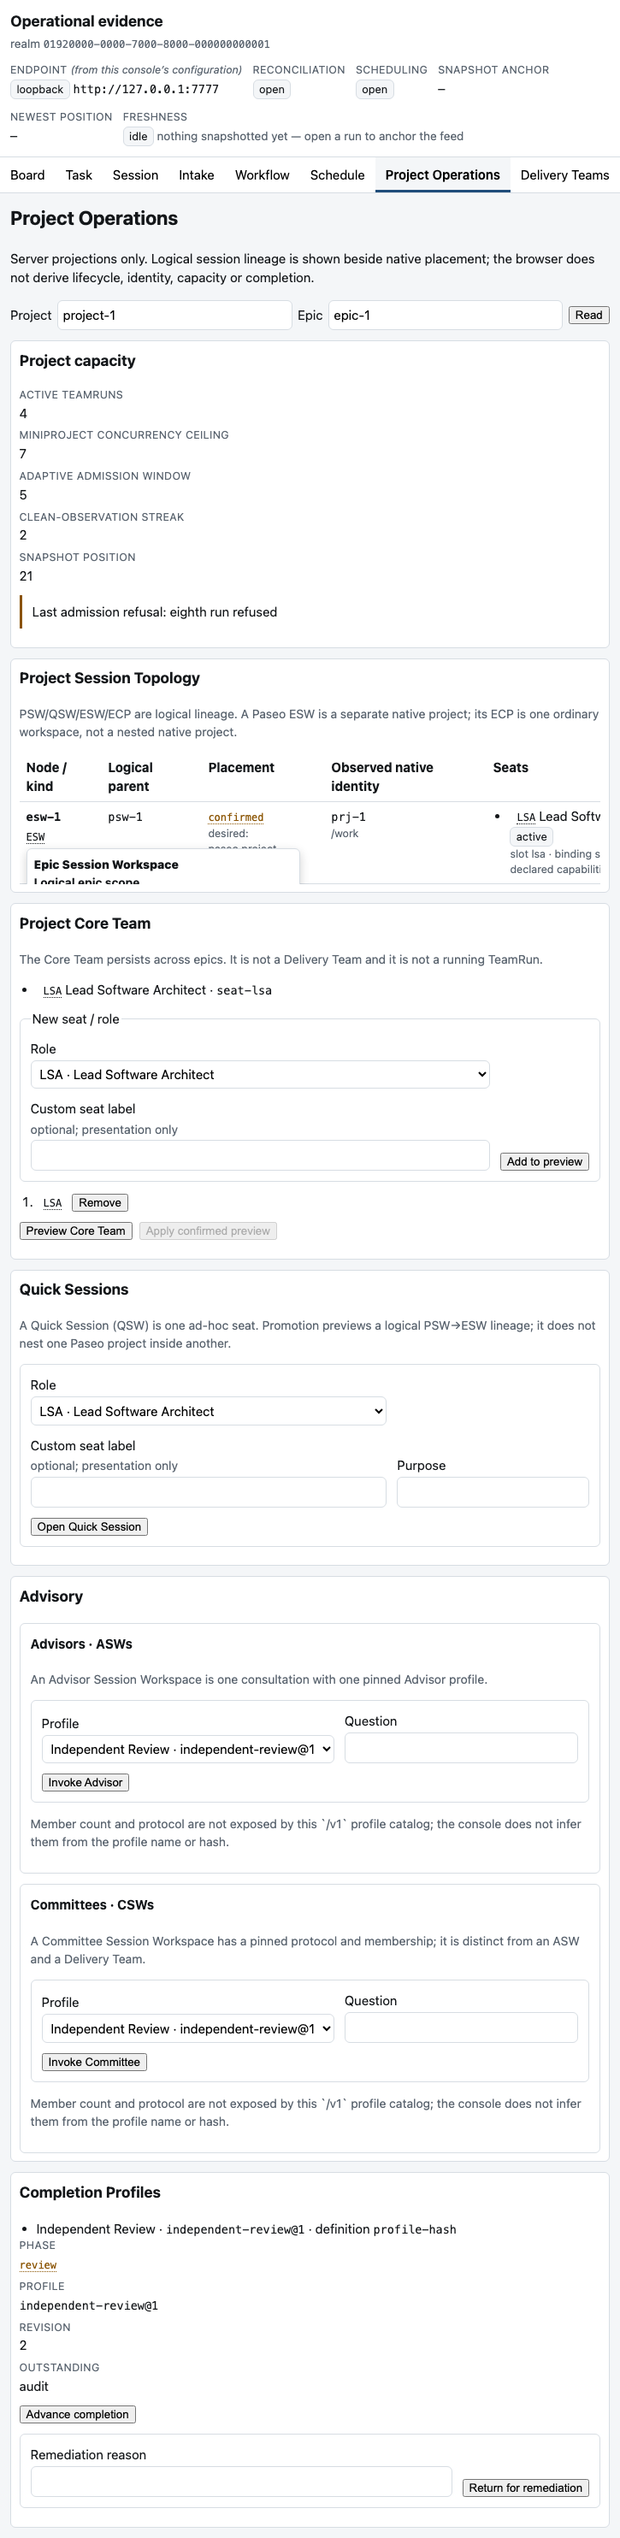
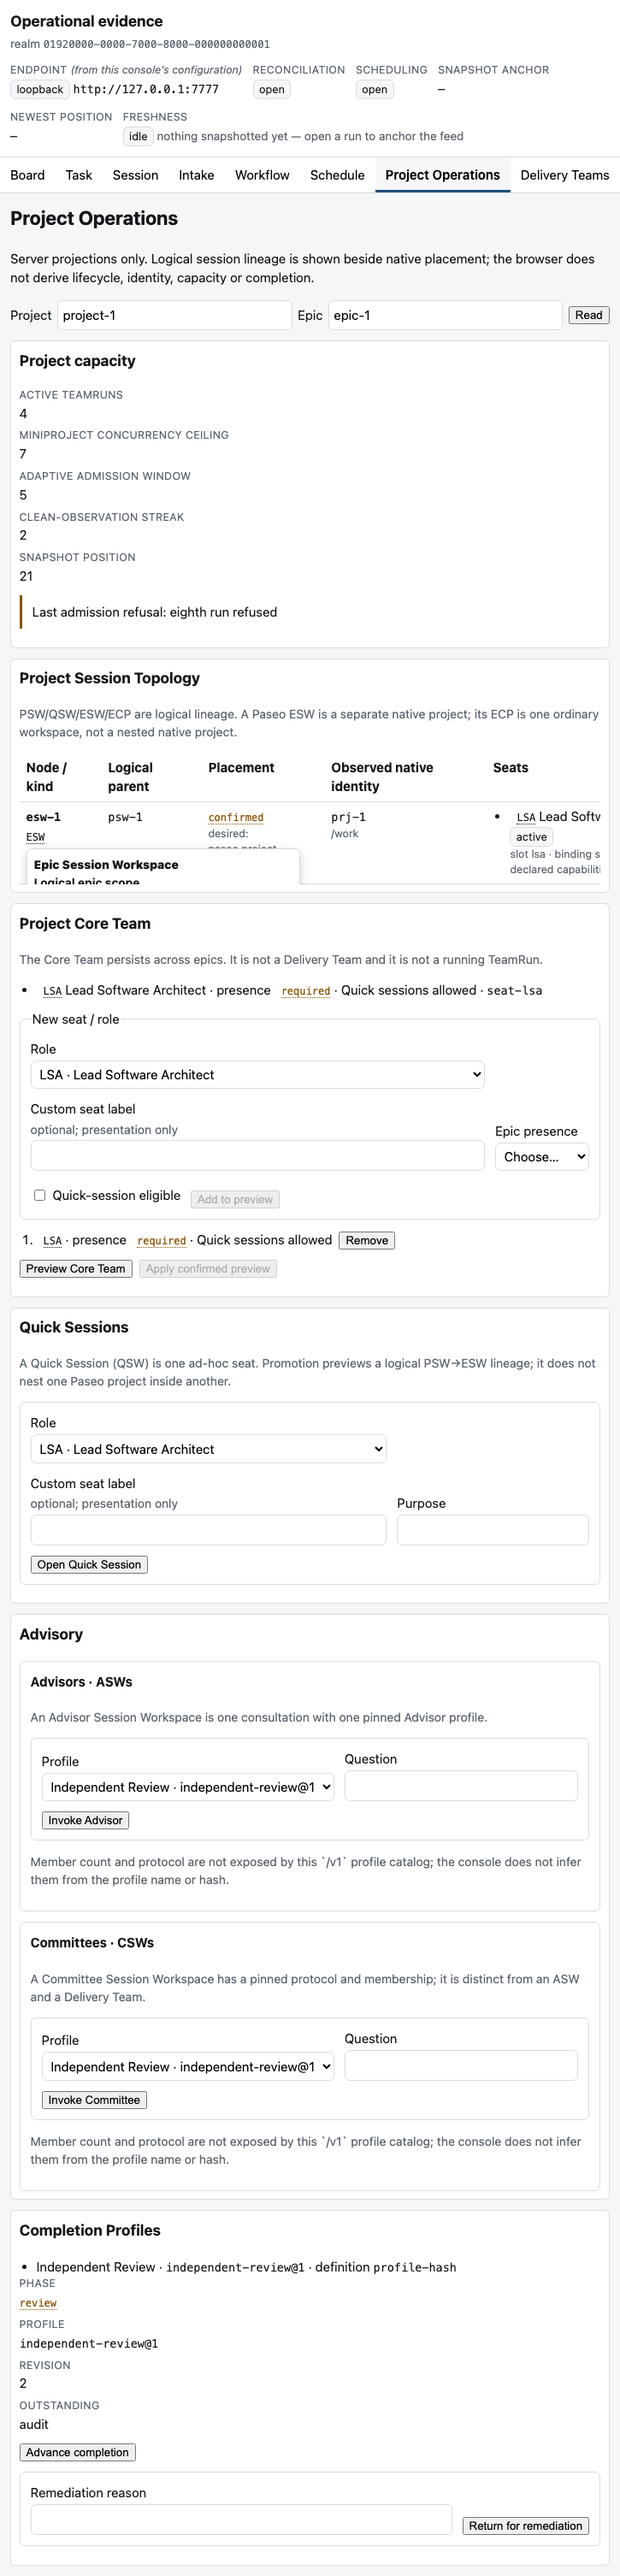
chore: Update asma-rs-kontor module

diff --git a/apps/console/src/views/ProjectView.tsx b/apps/console/src/views/ProjectView.tsx
@@ -10,6 +10,7 @@ import type {
   CoreTeam,
   CoreTeamOutcome,
   CoreTeamPreview,
+  CoreTeamSeatSelection,
   EpicProjection,
   MutationReceipt,
   ProfileCatalog,
@@ -323,9 +324,11 @@ function CoreTeamPanel({
   help: readonly CodeHelpEntry[]
 }) {
   const [current, setCurrent] = useState(team)
-  const [seats, setSeats] = useState<RoleSelection[]>([])
+  const [seats, setSeats] = useState<CoreTeamSeatSelection[]>([])
   const [roleCode, setRoleCode] = useState(roles[0]?.role_code ?? '')
   const [label, setLabel] = useState('')
+  const [presence, setPresence] = useState('')
+  const [adHocAllowed, setAdHocAllowed] = useState(false)
   const [preview, setPreview] = useState<CoreTeamPreview | null>(null)
   const [receipt, setReceipt] = useState<MutationReceipt | null>(null)
   const [error, setError] = useState<string | null>(null)
@@ -334,17 +337,23 @@ function CoreTeamPanel({
   useEffect(() => {
     setCurrent(team)
     setSeats(team.seats.map((seat) => ({
-      catalog_revision: seat.role.catalog_revision,
-      role_code: seat.role.role_code,
-      ...(seat.role.custom_display_name ? { custom_display_name: seat.role.custom_display_name } : {}),
+      role: {
+        catalog_revision: seat.role.catalog_revision,
+        role_code: seat.role.role_code,
+        ...(seat.role.custom_display_name ? { custom_display_name: seat.role.custom_display_name } : {}),
+      },
+      presence: seat.presence,
+      ad_hoc_allowed: seat.ad_hoc_allowed,
     })))
   }, [team])
 
   const add = (): void => {
     const selection = roleSelection(catalogRevision, roleCode, label)
-    if (!selection) return
-    setSeats((value) => [...value, selection])
+    if (!selection || !presence) return
+    setSeats((value) => [...value, { role: selection, presence, ad_hoc_allowed: adHocAllowed }])
     setLabel('')
+    setPresence('')
+    setAdHocAllowed(false)
     setPreview(null)
   }
 
@@ -356,6 +365,8 @@ function CoreTeamPanel({
           <li key={`${seat.role.role_code}-${seat.seat_binding_id ?? 'unfilled'}`}>
             <CodeHelp code={seat.role.role_code} category="role" entries={help} /> {seat.role.standard_title}
             {seat.role.custom_display_name ? ` · ${seat.role.custom_display_name}` : ''}
+            {' · '}presence <CodeHelp code={seat.presence} entries={help} />
+            {' · '}Quick sessions {seat.ad_hoc_allowed ? 'allowed' : 'not allowed'}
             {' · '}{seat.seat_binding_id ? <code>{seat.seat_binding_id}</code> : 'not materialized'}
           </li>
         ))}
@@ -363,14 +374,18 @@ function CoreTeamPanel({
       <fieldset className="operation-form">
         <legend>New seat / role</legend>
         <RoleFields roles={roles} roleCode={roleCode} onRoleCode={setRoleCode} label={label} onLabel={setLabel} disabled={!catalogRevision} />
-        <button type="button" onClick={add} disabled={busy || !catalogRevision || !roleCode}>Add to preview</button>
+        <label className="field">Epic presence<select required value={presence} onChange={(event) => setPresence(event.target.value)}><option value="">Choose…</option><option value="required">required</option><option value="default">default</option><option value="on_demand">on demand</option></select></label>
+        <label className="check-field"><input type="checkbox" checked={adHocAllowed} onChange={(event) => setAdHocAllowed(event.target.checked)} /> Quick-session eligible</label>
+        <button type="button" onClick={add} disabled={busy || !catalogRevision || !roleCode || !presence}>Add to preview</button>
         {!catalogRevision ? <p className="banner" role="alert">The server projected no role-catalog revision, so a valid selection cannot be written.</p> : null}
       </fieldset>
       {seats.length ? (
         <ol className="compact-list" aria-label="proposed Core Team seats">
           {seats.map((seat, index) => (
-            <li key={`${seat.role_code}-${index}`}>
-              <CodeHelp code={seat.role_code} category="role" entries={help} /> {seat.custom_display_name ?? ''}
+            <li key={`${seat.role.role_code}-${index}`}>
+              <CodeHelp code={seat.role.role_code} category="role" entries={help} /> {seat.role.custom_display_name ?? ''}
+              {' · '}presence <CodeHelp code={seat.presence} entries={help} />
+              {' · '}Quick sessions {seat.ad_hoc_allowed ? 'allowed' : 'not allowed'}
               <button type="button" onClick={() => { setSeats((value) => value.filter((_, at) => at !== index)); setPreview(null) }}>Remove</button>
             </li>
           ))}

diff --git a/apps/console/src/api/schema.d.ts b/apps/console/src/api/schema.d.ts
@@ -3007,7 +3007,7 @@ export interface components {
             /** @description The hash the preview answered with. */
             preview_hash: string;
             /** @description The roles the Core Team should seat, in order. */
-            seats: components["schemas"]["RoleSelectionDto"][];
+            seats: components["schemas"]["CoreTeamSeatSelectionDto"][];
         };
         /** @description One project's Core Team. */
         CoreTeamDto: {
@@ -3055,14 +3055,47 @@ export interface components {
         /** @description A proposed Core Team composition. */
         CoreTeamPreviewRequest: {
             /** @description The roles the Core Team should seat, in order. */
-            seats: components["schemas"]["RoleSelectionDto"][];
+            seats: components["schemas"]["CoreTeamSeatSelectionDto"][];
         };
-        /** @description One Core Team seat: the standard role, and the seat filling it if any. */
+        /**
+         * @description One Core Team seat: the standard role, the policy it is held under, and the
+         *     seat filling it if any.
+         *
+         *     Presence and ad-hoc eligibility are reported, not just accepted. A Core Team
+         *     edit states the whole roster, so a caller that could not read the policy of
+         *     the seats it is not changing would have to invent one for each of them — and
+         *     the first such edit would silently rewrite every other seat's presence.
+         */
         CoreTeamSeatDto: {
+            /** @description Whether the role may open a Quick session. */
+            ad_hoc_allowed: boolean;
+            /** @description When a concrete epic materializes it. */
+            presence: string;
             /** @description The role, as the server resolved it. */
             role: components["schemas"]["ResolvedRoleRefDto"];
             /** @description The binding filling it, once one has been materialized. */
             seat_binding_id?: string | null;
+        };
+        /**
+         * @description One Core Team seat as a caller states it: the role, and the policy the
+         *     project holds that role under.
+         *
+         *     [`RoleSelectionDto`] carries the catalog revision, the code and an optional
+         *     label — every fact about *which* role. It deliberately carries no policy,
+         *     because the same role is selected in places that have no epic presence to
+         *     state. A Core Team entry does have one, and it cannot be derived: presence
+         *     is not a function of the role code or of display order, and
+         *     `GET /quick-roles` answers from `ad_hoc_allowed` specifically. Inferring
+         *     either would hard-code project policy into the server and make that
+         *     projection dishonest, so both are stated once, here.
+         */
+        CoreTeamSeatSelectionDto: {
+            /** @description Whether the role may open a Quick session. */
+            ad_hoc_allowed: boolean;
+            /** @description When a concrete epic materializes it. */
+            presence: string;
+            /** @description The role this seat fills. */
+            role: components["schemas"]["RoleSelectionDto"];
         };
         /**
          * @description The native shape the server derived for one node.

diff --git a/apps/console/src/views/ProjectView.test.tsx b/apps/console/src/views/ProjectView.test.tsx
@@ -17,7 +17,7 @@ const ROLES = [
 ]
 const CORE_TEAM = {
   project_id: 'project-1', realm_id: 'realm-1', revision: 3, snapshot_cursor: 20,
-  seats: [{ role: { catalog_revision: REVISION, role_code: 'LSA', segment: 'leadership', standard_title: 'Lead Software Architect' }, seat_binding_id: 'seat-lsa' }],
+  seats: [{ role: { catalog_revision: REVISION, role_code: 'LSA', segment: 'leadership', standard_title: 'Lead Software Architect' }, presence: 'required', ad_hoc_allowed: true, seat_binding_id: 'seat-lsa' }],
 }
 const PROFILE = { id: 'independent-review', version: 1, name: 'Independent Review', definition_hash: 'profile-hash' }
 
@@ -91,6 +91,8 @@ describe('<ProjectView>', () => {
     expect(apply).toBeDisabled()
     fireEvent.change(within(section).getByLabelText('Role'), { target: { value: 'TPM' } })
     fireEvent.change(within(section).getByLabelText(/Custom seat label/), { target: { value: 'Delivery lead' } })
+    fireEvent.change(within(section).getByLabelText('Epic presence'), { target: { value: 'default' } })
+    fireEvent.click(within(section).getByLabelText('Quick-session eligible'))
     expect((within(section).getByRole('option', { name: /TPM/ }).parentElement as HTMLOptGroupElement).label).toBe('leadership')
     fireEvent.click(within(section).getByRole('button', { name: 'Add to preview' }))
     fireEvent.click(within(section).getByRole('button', { name: 'Preview Core Team' }))
@@ -102,7 +104,15 @@ describe('<ProjectView>', () => {
     await waitFor(() => expect(client.applyCoreTeam).toHaveBeenCalledTimes(1))
     expect(client.applyCoreTeam).toHaveBeenCalledWith(
       'project-1',
-      expect.objectContaining({ expected_revision: 3, preview_hash: 'preview-1', seats: expect.arrayContaining([expect.objectContaining({ role_code: 'TPM', custom_display_name: 'Delivery lead' })]) }),
+      expect.objectContaining({
+        expected_revision: 3,
+        preview_hash: 'preview-1',
+        seats: expect.arrayContaining([expect.objectContaining({
+          presence: 'default',
+          ad_hoc_allowed: true,
+          role: expect.objectContaining({ role_code: 'TPM', custom_display_name: 'Delivery lead' }),
+        })]),
+      }),
       expect.any(String),
     )
     confirm({ core_team: { ...CORE_TEAM, revision: 4 }, receipt: RECEIPT })

diff --git a/apps/console/e2e/project.spec.ts b/apps/console/e2e/project.spec.ts
@@ -22,7 +22,7 @@ async function attach(page: Page): Promise<void> {
           seats: [{ seat_binding_id: 'seat-lsa', role_slot_id: 'lsa', lifecycle: 'active', role: { catalog_revision: REVISION, role_code: 'LSA', segment: 'leadership', standard_title: 'Lead Software Architect' } }],
         }],
       },
-      '/v1/projects/project-1/core-team': { realm_id: REALM, project_id: 'project-1', revision: 2, snapshot_cursor: 21, seats: [{ role: { catalog_revision: REVISION, role_code: 'LSA', segment: 'leadership', standard_title: 'Lead Software Architect' }, seat_binding_id: 'seat-lsa' }] },
+      '/v1/projects/project-1/core-team': { realm_id: REALM, project_id: 'project-1', revision: 2, snapshot_cursor: 21, seats: [{ role: { catalog_revision: REVISION, role_code: 'LSA', segment: 'leadership', standard_title: 'Lead Software Architect' }, presence: 'required', ad_hoc_allowed: true, seat_binding_id: 'seat-lsa' }] },
       '/v1/projects/project-1/quick-roles': { realm_id: REALM, project_id: 'project-1', snapshot_cursor: 21, roles: [{ role_code: 'LSA', standard_title: 'Lead Software Architect', segment: 'leadership', lifecycle: 'active', responsibility_summary: 'Owns architecture.', capability_defaults: ['persistent'] }] },
       '/v1/projects/project-1/capacity': { realm_id: REALM, project_id: 'project-1', snapshot_cursor: 21, accounts: [], active_team_runs: 4, adaptive_streak: 2, adaptive_width: 5, mission_ceiling: 7, last_refusal: 'eighth run refused' },
       '/v1/projects/project-1/epics/epic-1/code-help': { realm_id: REALM, epic_id: 'epic-1', snapshot_cursor: 21, entries: [

diff --git a/apps/console/src/api/types.ts b/apps/console/src/api/types.ts
@@ -77,6 +77,8 @@ export type CoreTeamPreviewRequest = Schemas['CoreTeamPreviewRequest']
 export type CoreTeamPreview = Schemas['CoreTeamPreviewDto']
 /** Apply an unchanged Core Team preview. */
 export type CoreTeamApplyRequest = Schemas['CoreTeamApplyRequest']
+/** One Core Team role plus its explicit epic-presence policy. */
+export type CoreTeamSeatSelection = Schemas['CoreTeamSeatSelectionDto']
 /** A receipt-backed Core Team write. */
 export type CoreTeamOutcome = Schemas['CoreTeamOutcomeDto']
 /** The roles a Quick session may select. */

diff --git a/apps/console/src/console.css b/apps/console/src/console.css
@@ -758,6 +758,13 @@ td {
   flex: 1 1 24rem;
 }
 
+.check-field {
+  display: flex;
+  gap: 0.35rem;
+  align-items: center;
+  min-height: 2rem;
+}
+
 .operation-actions {
   display: flex;
   flex-wrap: wrap;
